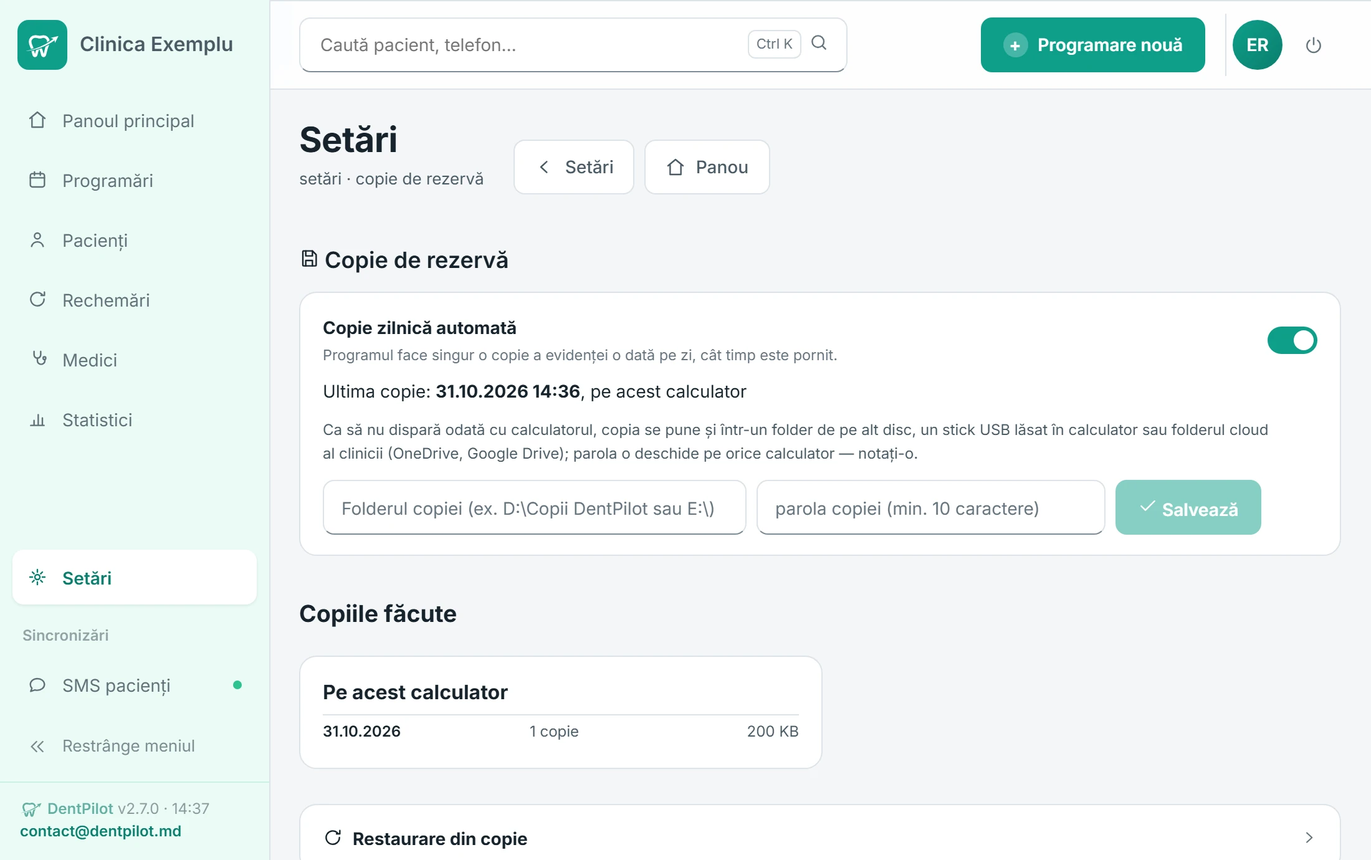
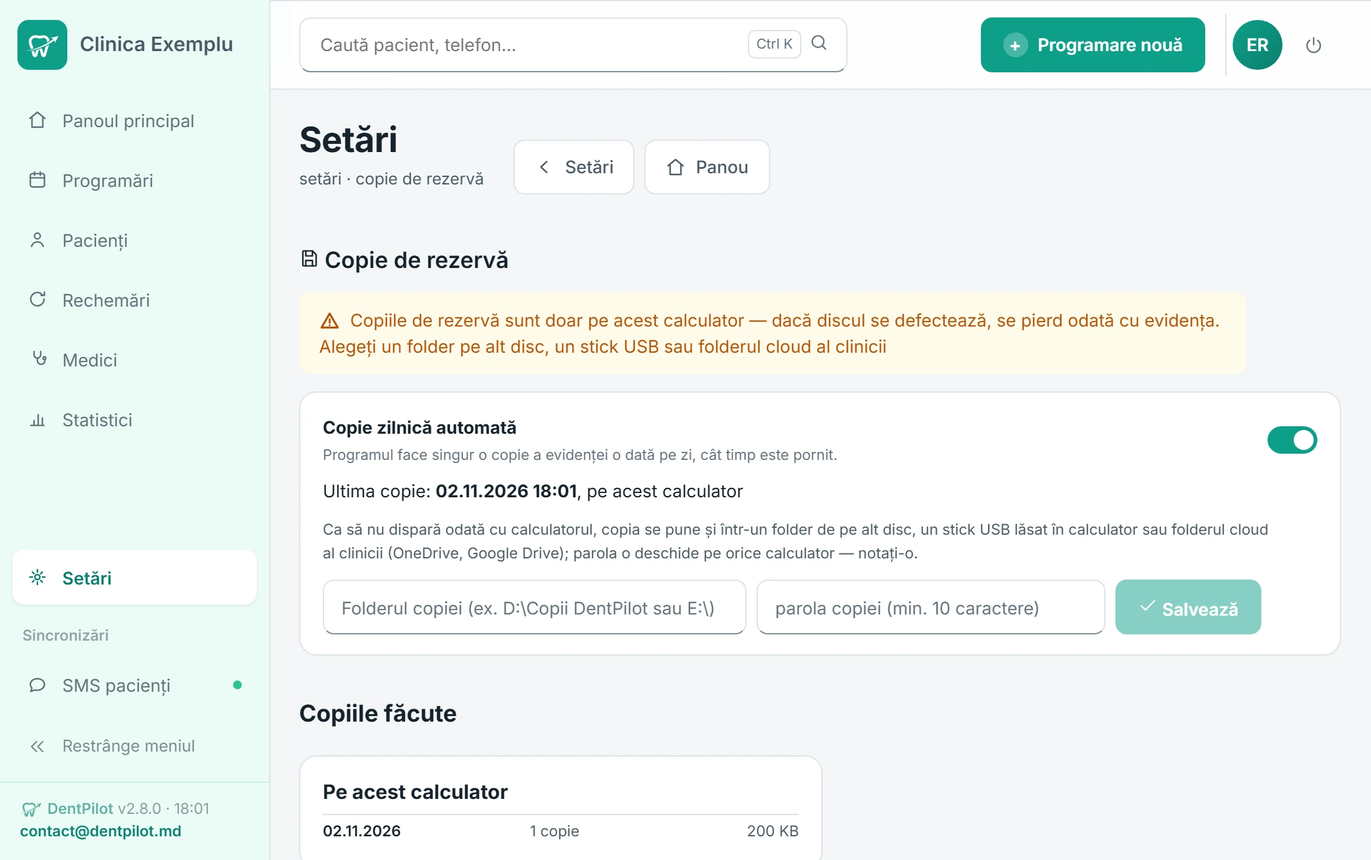
Guide "Primii pasi" under DentPilot 2.8.0: network sign-in picks the name ("Alegeti persoana") then PIN; what is done only on the program's PC (list from app auth.LOCAL_ONLY via the FAQ words); local copies kept by day (KEEP_DAYS/KEEP_RECENT from app); the off-site folder line in Stare sistem and on

diff --git a/primii-pasi-ru.html b/primii-pasi-ru.html
@@ -437,8 +437,8 @@ footer{padding:48px 0 32px;background:var(--bg)}
 <p>При первом запуске программа просит PIN — код, которым входят в журнал. С ним создаётся учётная запись директора.</p>
 <ol><li>Введите PIN из 4–8 цифр в оба поля.</li><li>Нажмите <span class="ui">Setează PIN</span>.</li></ol>
 <figure class="frame gshot"><img src="shots/guide-pin.webp" alt="Первый запуск DentPilot™: PIN директора" width="2200" height="1380" loading="lazy"></figure>
-<div class="call tip"><b>Совет</b><p>Запишите PIN в надёжном месте. Если забудете, другой директор сменит его в <span class="ui">Securitate și utilizatori</span>; если вы единственный директор — напишите нам. Если журнал будут открывать и с другого компьютера или телефона, сразу выберите PIN не короче 6 цифр (шаг 8).</p></div>
-<p>Первая настройка делается только на компьютере, где установлена программа.</p>
+<div class="call tip"><b>Совет</b><p>Запишите PIN в надёжном месте. Если забудете, другой директор сменит его в <span class="ui">Securitate și utilizatori</span> на компьютере с программой; если вы единственный директор — напишите нам. Если журнал будут открывать и с другого компьютера или телефона, сразу выберите PIN не короче 6 цифр (шаг 8).</p></div>
+<p>Первая настройка делается только на компьютере, где установлена программа. Там же и потом меняются пользователи, резервные копии и шифрование (шаг 8).</p>
 </section>
 <section class="gs" id="activare"><div class="gh"><span class="gn">04</span><h2>Активируйте пробный период</h2></div>
 <p>После PIN откроется страница <span class="ui">Activarea programului</span>. Заполните:</p>
@@ -481,15 +481,17 @@ footer{padding:48px 0 32px;background:var(--bg)}
 <div class="call tip"><b>Совет</b><p>Чтобы передать компьютер другому человеку, нажмите <span class="ui">Ieșire din cont</span> — кнопку справа вверху — или в меню окна <span class="ui">Fișier</span> › <span class="ui">Schimbă persoana…</span>.</p></div>
 </section>
 <section class="gs" id="siguranta"><div class="gh"><span class="gn">07</span><h2>Защитите данные</h2></div>
-<p>Ежедневная автоматическая копия включена с установки и хранится на том же компьютере. Положите копию и за его пределами:</p>
+<p>Ежедневная автоматическая копия включена с установки и хранится на том же компьютере — по одной за каждый из последних 14 дней с копиями, плюс 3 самые новые. Положите копию и за его пределами:</p>
 <ol><li>В <span class="ui">Setări</span> › <span class="ui">Copie de rezervă</span>, при включённой <span class="ui">Copie zilnică automată</span>, впишите папку копии: на другом диске, на флешке или в папке, которая синхронизируется с облаком, — например <code>D:\Copii DentPilot</code> или <code>E:\</code>.</li><li>Задайте пароль копии — не меньше 10 знаков — и запишите его на бумаге. Без него копию не открыть.</li><li>Нажмите <span class="ui">Salvează</span>, затем <span class="ui">Fă o copie acum</span>.</li></ol>
 <figure class="frame gshot"><img src="shots/guide-copie.webp" alt="Резервная копия DentPilot™: папка, пароль, сделанные копии" width="2200" height="1380" loading="lazy"></figure>
+<p>Пока папка не выбрана, в <span class="ui">Stare sistem</span> и на экране <span class="ui">Copie de rezervă</span> стоит строка <span class="ui">Copiile de rezervă sunt doar pe acest calculator</span> (копии только на этом компьютере). Если копия не сделалась или копия в папке устарела, директор видит предупреждение на каждом экране.</p>
 <p>По желанию <span class="ui">Criptarea evidenței</span> шифрует базу данных. <span class="ui">Pregătește criptarea</span> сначала печатает лист восстановления — храните его в папке клиники: это единственный способ открыть данные на другом компьютере. Шифрование включится при следующем запуске программы. Для Закона 195 достаточно и шифрования диска BitLocker.</p>
 </section>
 <section class="gs" id="retea"><div class="gh"><span class="gn">08</span><h2>Второй компьютер</h2></div>
 <p>Шаг по желанию. Журнал один: не устанавливайте программу на второй компьютер — получится отдельная, пустая картотека.</p>
-<ol><li>На компьютере с программой: <span class="ui">Setări</span> › <span class="ui">Acces din rețea</span> › <span class="ui">Activează accesul</span>. Программа перезапустится.</li><li>Если появится кнопка <span class="ui">Creează regula de firewall</span>, нажмите её и подтвердите в Windows.</li><li>Запишите показанный адрес вида <code>http://192.168.x.x:8088/admin</code>. На странице есть и QR-код для телефона.</li><li>На втором компьютере откройте адрес в Chrome или Edge, войдите со своим PIN и сохраните страницу в закладки.</li></ol>
+<ol><li>На компьютере с программой: <span class="ui">Setări</span> › <span class="ui">Acces din rețea</span> › <span class="ui">Activează accesul</span>. Программа перезапустится.</li><li>Если появится кнопка <span class="ui">Creează regula de firewall</span>, нажмите её и подтвердите в Windows.</li><li>Запишите показанный адрес вида <code>http://192.168.x.x:8088/admin</code>. На странице есть и QR-код для телефона.</li><li>На втором компьютере откройте адрес в Chrome или Edge. В <span class="ui">Alegeți persoana</span> выберите своё имя, введите PIN и сохраните страницу в закладки.</li></ol>
 <div class="call warn"><b>Внимание</b><p>Доступ по сети включается, только когда у всех PIN не меньше 6 цифр.</p></div>
+<p>Несколько действий выполняются только на компьютере с программой:копия на флешку, папка резервных копий, восстановление из копии, шифрование и его лист восстановления, пользователи, выгрузки в Excel (список пациентов, журнал). По сети эти страницы можно посмотреть, но не изменить — вместо кнопок написано, что действие выполняется только на главном компьютере.</p>
 <p>Компьютер с программой должен быть включён, а программа — открыта или у часов. Телефон подключается так же, через Wi-Fi клиники: отсканируйте QR-код.</p>
 </section>
 <section class="gs" id="sms"><div class="gh"><span class="gn">09</span><h2>SMS-напоминания</h2></div>
@@ -543,7 +545,7 @@ footer{padding:48px 0 32px;background:var(--bg)}
 <figure class="frame gshot"><img src="shots/guide-cont-documente.webp" alt="Кабинет клиники DentPilot™, вкладка Documente: договор, соглашение об обработке данных и декларация поставщика" width="2200" height="1380" loading="lazy"></figure>
 </section>
 <section class="gs" id="mai-departe"><div class="gh"><span class="gn">13</span><h2>Что дальше</h2></div>
-<ul><li>Обновления: программа сообщает о новой версии; <span class="ui">Setări</span> › <span class="ui">Stare sistem</span> › <span class="ui">Actualizează acum</span>. Windows попросит подтвердить права администратора, программа закроется примерно на минуту и запустится сама. Данные остаются нетронутыми.</li><li>Условия использования: при новой редакции директор видит баннер <span class="ui">Termenii și condițiile DentPilot s-au actualizat</span> — <span class="ui">Citiți versiunea nouă</span>, отметьте <span class="ui">Am citit și accept</span> и нажмите <span class="ui">Accept</span>. Журнал работает и до этого; акт попадает в кабинет клиники, в <span class="ui">Documente</span>.</li><li>Вопросы: <span class="ui">Setări</span> › <span class="ui">Întrebări frecvente</span> — копии, сеть, BitLocker, Закон 195, оплата абонемента, забытый PIN.</li><li>Помощь: <a href="mailto:contact@dentpilot.md">contact@dentpilot.md</a>; по телефону <a href="tel:+37360508048">+373 60 508 048</a> — в пробный период и в DentPilot™ Plus.</li></ul>
+<ul><li>Обновления: программа сообщает о новой версии; <span class="ui">Setări</span> › <span class="ui">Stare sistem</span> › <span class="ui">Actualizează acum</span>. Windows попросит подтвердить права администратора, программа закроется примерно на минуту и запустится сама. Данные остаются нетронутыми.</li><li>Условия использования: при новой редакции директор видит баннер <span class="ui">Termenii și condițiile DentPilot s-au actualizat</span> — <span class="ui">Citiți versiunea nouă</span>, отметьте <span class="ui">Am citit și accept</span> и нажмите <span class="ui">Accept</span>. Журнал работает и до этого; акт попадает в кабинет клиники, в <span class="ui">Documente</span>.</li><li>Вопросы: <span class="ui">Setări</span> › <span class="ui">Întrebări frecvente</span> — копии и восстановление, переезд на другой компьютер, BitLocker и шифрование картотеки, второй компьютер и телефон, <span class="ui">Rechemări</span>, оплата абонемента и конец пробного периода, забытый PIN, роли, Закон 195.</li><li>Помощь: <a href="mailto:contact@dentpilot.md">contact@dentpilot.md</a>; по телефону <a href="tel:+37360508048">+373 60 508 048</a> — в пробный период и в DentPilot™ Plus.</li></ul>
 <div class="row"><a class="btn pri" href="https://demo.dentpilot.md/" target="_blank" rel="noopener">Открыть демо онлайн<svg width="18" height="18" viewBox="0 0 24 24" fill="none" stroke="currentColor" stroke-width="2" stroke-linecap="round" stroke-linejoin="round" aria-hidden="true"><path d="M7 17L17 7M9 7h8v8"/></svg></a><a class="btn" href="ru.html#contact">Заказать презентацию</a></div>
 </section></div>
 </div>

diff --git a/primii-pasi.html b/primii-pasi.html
@@ -437,8 +437,8 @@ footer{padding:48px 0 32px;background:var(--bg)}
 <p>La prima pornire programul cere un PIN — codul cu care intrați în registru. Cu el se creează contul directorului.</p>
 <ol><li>Introduceți un PIN de 4–8 cifre în ambele câmpuri.</li><li>Apăsați <span class="ui">Setează PIN</span>.</li></ol>
 <figure class="frame gshot"><img src="shots/guide-pin.webp" alt="Prima pornire DentPilot™: setarea PIN-ului directorului" width="2200" height="1380" loading="lazy"></figure>
-<div class="call tip"><b>Sfat</b><p>Scrieți PIN-ul într-un loc sigur. Dacă îl uitați, alt director îl poate schimba în <span class="ui">Securitate și utilizatori</span>; dacă sunteți singurul director, scrieți-ne. Dacă registrul se va deschide și de pe alt calculator sau de pe telefon, alegeți de la început un PIN de cel puțin 6 cifre (pasul 8).</p></div>
-<p>Prima configurare se face doar la calculatorul pe care e instalat programul.</p>
+<div class="call tip"><b>Sfat</b><p>Scrieți PIN-ul într-un loc sigur. Dacă îl uitați, alt director îl poate schimba în <span class="ui">Securitate și utilizatori</span>, pe calculatorul cu programul; dacă sunteți singurul director, scrieți-ne. Dacă registrul se va deschide și de pe alt calculator sau de pe telefon, alegeți de la început un PIN de cel puțin 6 cifre (pasul 8).</p></div>
+<p>Prima configurare se face doar la calculatorul pe care e instalat programul. Tot acolo, și mai târziu, se schimbă utilizatorii, copiile de rezervă și criptarea (pasul 8).</p>
 </section>
 <section class="gs" id="activare"><div class="gh"><span class="gn">04</span><h2>Activați perioada de probă</h2></div>
 <p>După PIN apare pagina <span class="ui">Activarea programului</span>. Completați:</p>
@@ -481,15 +481,17 @@ footer{padding:48px 0 32px;background:var(--bg)}
 <div class="call tip"><b>Sfat</b><p>Ca să predați calculatorul altei persoane, apăsați <span class="ui">Ieșire din cont</span> — butonul din dreapta sus — sau, în meniul ferestrei, <span class="ui">Fișier</span> › <span class="ui">Schimbă persoana…</span>.</p></div>
 </section>
 <section class="gs" id="siguranta"><div class="gh"><span class="gn">07</span><h2>Protejați datele</h2></div>
-<p>Copia zilnică automată e pornită de la instalare și se păstrează pe același calculator. Puneți o copie și în afara lui:</p>
+<p>Copia zilnică automată e pornită de la instalare și se păstrează pe același calculator — câte una pentru fiecare din ultimele 14 zile cu copii, plus ultimele 3 copii. Puneți o copie și în afara lui:</p>
 <ol><li>În <span class="ui">Setări</span> › <span class="ui">Copie de rezervă</span>, cu <span class="ui">Copie zilnică automată</span> pornită, scrieți folderul copiei: pe alt disc, pe un stick USB sau într-un folder sincronizat în cloud — de exemplu <code>D:\Copii DentPilot</code> sau <code>E:\</code>.</li><li>Setați parola copiei — cel puțin 10 caractere — și scrieți-o pe hârtie. Fără ea copia nu se deschide.</li><li>Apăsați <span class="ui">Salvează</span>, apoi <span class="ui">Fă o copie acum</span>.</li></ol>
 <figure class="frame gshot"><img src="shots/guide-copie.webp" alt="Copia de rezervă DentPilot™: folder, parolă, copii făcute" width="2200" height="1380" loading="lazy"></figure>
+<p>Până alegeți folderul, în <span class="ui">Stare sistem</span> și pe ecranul <span class="ui">Copie de rezervă</span> stă rândul <span class="ui">Copiile de rezervă sunt doar pe acest calculator</span>. Dacă o copie nu s-a făcut sau cea din folder e veche, directorul vede un avertisment pe fiecare ecran.</p>
 <p>Opțional, <span class="ui">Criptarea evidenței</span> criptează baza de date. <span class="ui">Pregătește criptarea</span> tipărește întâi foaia de recuperare — păstrați-o în mapa clinicii: e singura cale de a deschide datele pe alt calculator. Criptarea pornește la următoarea pornire a programului. Pentru Legea 195 ajunge și criptarea discului cu BitLocker.</p>
 </section>
 <section class="gs" id="retea"><div class="gh"><span class="gn">08</span><h2>Al doilea calculator</h2></div>
 <p>Pas opțional. Registrul este unul singur: nu instalați programul și pe al doilea calculator — ar fi o evidență separată, goală.</p>
-<ol><li>Pe calculatorul cu programul: <span class="ui">Setări</span> › <span class="ui">Acces din rețea</span> › <span class="ui">Activează accesul</span>. Programul repornește.</li><li>Dacă apare butonul <span class="ui">Creează regula de firewall</span>, apăsați-l și confirmați în Windows.</li><li>Notați adresa afișată, de forma <code>http://192.168.x.x:8088/admin</code>. Pagina arată și un cod QR pentru telefon.</li><li>Pe al doilea calculator deschideți adresa în Chrome sau Edge, intrați cu PIN-ul și salvați pagina la favorite.</li></ol>
+<ol><li>Pe calculatorul cu programul: <span class="ui">Setări</span> › <span class="ui">Acces din rețea</span> › <span class="ui">Activează accesul</span>. Programul repornește.</li><li>Dacă apare butonul <span class="ui">Creează regula de firewall</span>, apăsați-l și confirmați în Windows.</li><li>Notați adresa afișată, de forma <code>http://192.168.x.x:8088/admin</code>. Pagina arată și un cod QR pentru telefon.</li><li>Pe al doilea calculator deschideți adresa în Chrome sau Edge. La <span class="ui">Alegeți persoana</span> alegeți-vă numele, introduceți PIN-ul și salvați pagina la favorite.</li></ol>
 <div class="call warn"><b>Atenție</b><p>Accesul din rețea se activează doar când toate PIN-urile au cel puțin 6 cifre.</p></div>
+<p>Câteva lucruri se fac doar pe calculatorul cu programul: copia de rezervă pe stick, folderul copiilor de rezervă, restaurarea din copie, criptarea și foaia ei de recuperare, utilizatorii, exporturile în Excel (lista pacienților, registrul). Din rețea paginile lor se pot citi, dar nu schimba — în locul butoanelor scrie că acțiunea se face doar pe calculatorul principal.</p>
 <p>Calculatorul cu programul trebuie să fie pornit, iar programul — deschis sau lângă ceas. Telefonul se conectează la fel, prin Wi-Fi-ul clinicii: scanați codul QR.</p>
 </section>
 <section class="gs" id="sms"><div class="gh"><span class="gn">09</span><h2>Memento-uri SMS</h2></div>
@@ -543,7 +545,7 @@ footer{padding:48px 0 32px;background:var(--bg)}
 <figure class="frame gshot"><img src="shots/guide-cont-documente.webp" alt="Contul clinicii DentPilot™, fila Documente: contractul, acordul de prelucrare a datelor și declarația furnizorului" width="2200" height="1380" loading="lazy"></figure>
 </section>
 <section class="gs" id="mai-departe"><div class="gh"><span class="gn">13</span><h2>Ce urmează</h2></div>
-<ul><li>Actualizări: programul anunță versiunea nouă; <span class="ui">Setări</span> › <span class="ui">Stare sistem</span> › <span class="ui">Actualizează acum</span>. Windows cere confirmarea drepturilor de administrator, programul se închide pentru circa un minut și pornește singur. Datele rămân neatinse.</li><li>Termenii și condițiile: la o versiune nouă directorul vede bannerul <span class="ui">Termenii și condițiile DentPilot s-au actualizat</span> — <span class="ui">Citiți versiunea nouă</span>, bifați <span class="ui">Am citit și accept</span> și apăsați <span class="ui">Accept</span>. Registrul lucrează și până atunci; actul ajunge în contul clinicii, la <span class="ui">Documente</span>.</li><li>Întrebări: <span class="ui">Setări</span> › <span class="ui">Întrebări frecvente</span> — copii de rezervă, rețea, BitLocker, Legea 195, plata abonamentului, PIN uitat.</li><li>Ajutor: <a href="mailto:contact@dentpilot.md">contact@dentpilot.md</a>; la telefon <a href="tel:+37360508048">+373 60 508 048</a> — în perioada de probă și în DentPilot™ Plus.</li></ul>
+<ul><li>Actualizări: programul anunță versiunea nouă; <span class="ui">Setări</span> › <span class="ui">Stare sistem</span> › <span class="ui">Actualizează acum</span>. Windows cere confirmarea drepturilor de administrator, programul se închide pentru circa un minut și pornește singur. Datele rămân neatinse.</li><li>Termenii și condițiile: la o versiune nouă directorul vede bannerul <span class="ui">Termenii și condițiile DentPilot s-au actualizat</span> — <span class="ui">Citiți versiunea nouă</span>, bifați <span class="ui">Am citit și accept</span> și apăsați <span class="ui">Accept</span>. Registrul lucrează și până atunci; actul ajunge în contul clinicii, la <span class="ui">Documente</span>.</li><li>Întrebări: <span class="ui">Setări</span> › <span class="ui">Întrebări frecvente</span> — copii de rezervă și restaurare, mutarea pe alt calculator, BitLocker și criptarea evidenței, al doilea calculator și telefonul, <span class="ui">Rechemări</span>, plata abonamentului și sfârșitul perioadei de probă, PIN uitat, rolurile, Legea 195.</li><li>Ajutor: <a href="mailto:contact@dentpilot.md">contact@dentpilot.md</a>; la telefon <a href="tel:+37360508048">+373 60 508 048</a> — în perioada de probă și în DentPilot™ Plus.</li></ul>
 <div class="row"><a class="btn pri" href="https://demo.dentpilot.md/" target="_blank" rel="noopener">Încearcă demo online<svg width="18" height="18" viewBox="0 0 24 24" fill="none" stroke="currentColor" stroke-width="2" stroke-linecap="round" stroke-linejoin="round" aria-hidden="true"><path d="M7 17L17 7M9 7h8v8"/></svg></a><a class="btn" href="index.html#contact">Solicită o prezentare</a></div>
 </section></div>
 </div>
